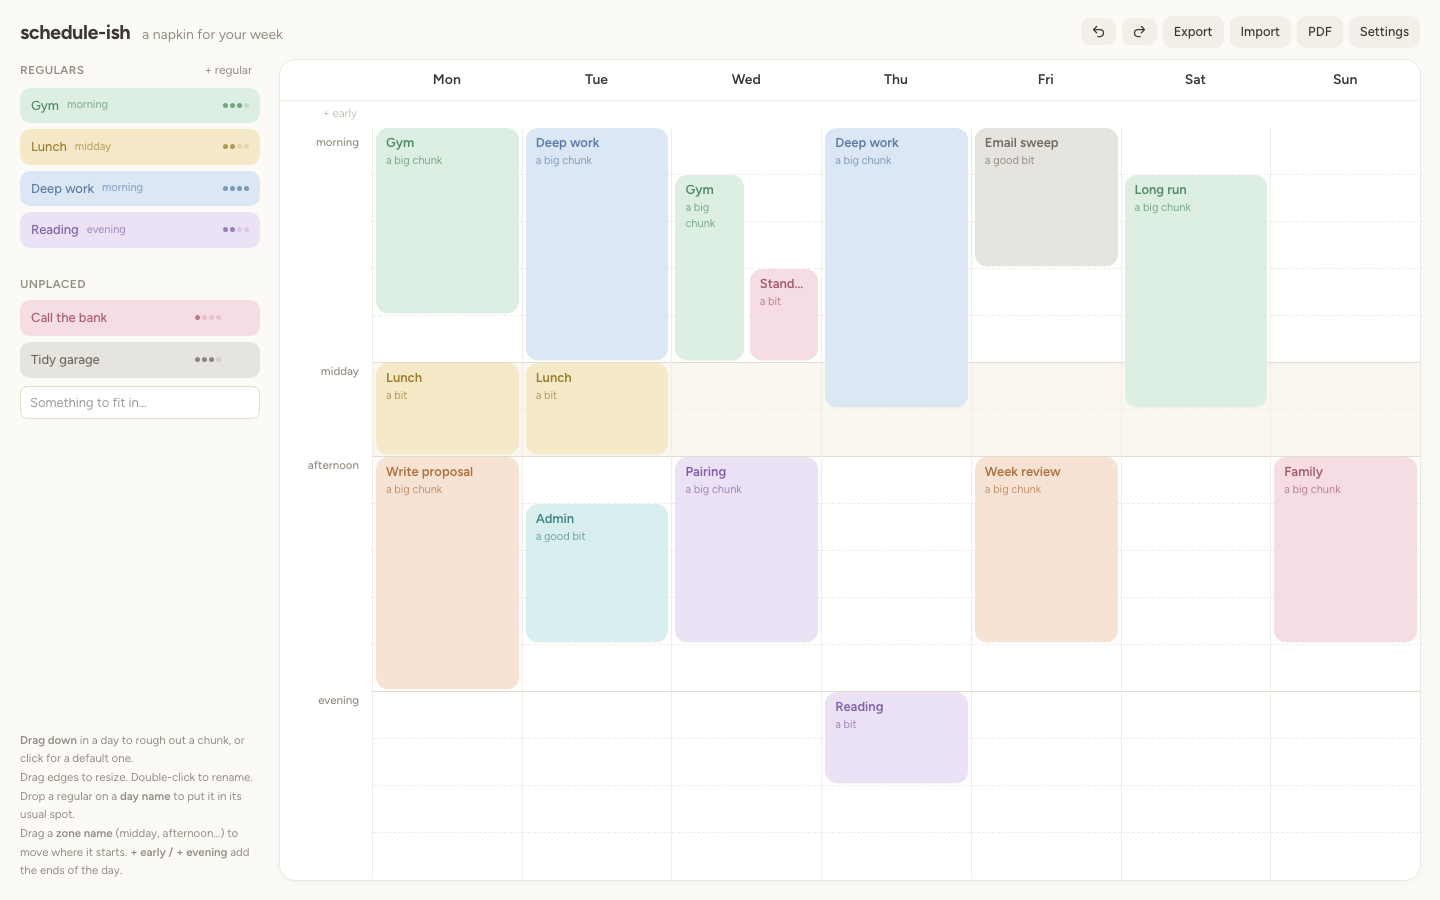
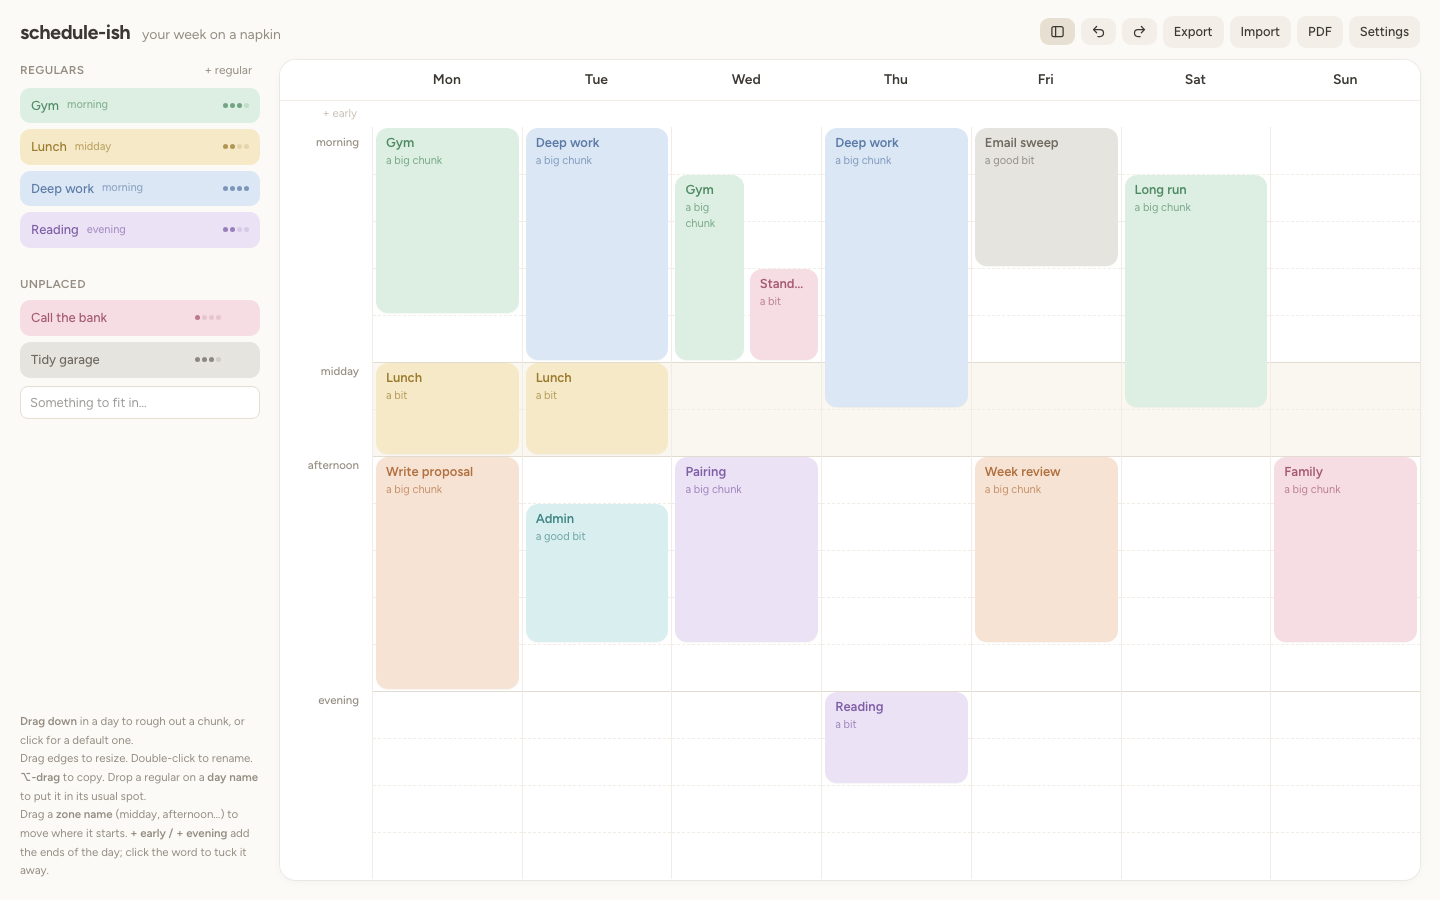
schedule-ish: sidebar left/right/hidden; duplicate blocks
A header button shows or hides the sidebar, and Settings has
'sidebar: left / right / hidden'. Both are saved with the plan. They
use inline styles because the Tailwind browser build generates CSS for
newly added classes a beat late (and 'hidden' loses to 'flex').

Blocks get a duplicate tool: the copy goes straight after the original,
else the same spot on the next visible day (with a note saying so), else
the first free gap that day. Option-dragging a block drags a copy and
leaves the original; either way it's one undo step.

The hover minus on early/evening no longer shifts the label sideways.

Changed region(s): [[0.0, 0.7778, 0.1875, 0.9956], [0.0938, 0.0311, 0.1875, 0.0622], [0.7188, 0.0, 0.75, 0.0622]]

diff --git a/schedule-ish/app.js b/schedule-ish/app.js
@@ -83,6 +83,7 @@
   // ---- rendering -----------------------------------------------------------
 
   function render() {
+    placeSidebar();
     renderSidebar();
     renderBoard();
     focusEditor();
@@ -131,9 +132,23 @@
 
       <section class="mt-auto text-[11.5px] leading-relaxed" style="color:var(--muted)">
         <p><b class="font-semibold">Drag down</b> in a day to rough out a chunk, or click for a default one.</p>
-        <p>Drag edges to resize. Double-click to rename. Drop a regular on a <b class="font-semibold">day name</b> to put it in its usual spot.</p>
-        <p>Drag a <b class="font-semibold">zone name</b> (midday, afternoon…) to move where it starts. <b class="font-semibold">+ early / + evening</b> add the ends of the day.</p>
+        <p>Drag edges to resize. Double-click to rename. <b class="font-semibold">⌥-drag</b> to copy. Drop a regular on a <b class="font-semibold">day name</b> to put it in its usual spot.</p>
+        <p>Drag a <b class="font-semibold">zone name</b> (midday, afternoon…) to move where it starts. <b class="font-semibold">+ early / + evening</b> add the ends of the day; click the word to tuck it away.</p>
       </section>`;
+  }
+
+  // Sidebar on the left or right (or hidden). The aside has its own 8px
+  // padding, so the page edge on its side gets less.
+  function placeSidebar() {
+    const { sidebar, sidebarHidden } = state.settings;
+    const main = $('#main');
+    // Inline styles, not Tailwind classes: the browser build generates CSS
+    // for new classes a beat later, and `hidden` would lose to `flex` anyway.
+    main.style.flexDirection = sidebar === 'right' ? 'row-reverse' : 'row';
+    main.style.paddingLeft = !sidebarHidden && sidebar === 'left' ? '12px' : '20px';
+    main.style.paddingRight = !sidebarHidden && sidebar === 'right' ? '12px' : '20px';
+    $('#sidebar').style.display = sidebarHidden ? 'none' : '';
+    $('[data-cmd="toggle-sidebar"]').classList.toggle('on', !sidebarHidden);
   }
 
   function measureStep() {
@@ -175,7 +190,7 @@
       <div class="zone-label ${movable ? 'movable' : ''} ${optional ? 'optional' : ''} ${active ? 'active' : ''}"
            ${movable || optional ? `data-zone-label="${z.id}" title="${tip.charAt(0).toUpperCase() + tip.slice(1)}"` : ''}
            style="top:${Math.max(0, (z.start - r0) * px - 6)}px">
-        <span>${z.label}${optional ? '<i class="zone-minus">−</i>' : ''}</span>
+        <span>${optional ? '<i class="zone-minus">−</i>' : ''}${z.label}</span>
       </div>`;
     }).join('');
 
@@ -243,6 +258,7 @@
            ${roomy ? `<div class="size-word">${M.sizeWord(b.size)}</div>` : ''}`}
       ${isGhost ? '' : `<div class="tools ${roomy ? 'at-bottom' : ''}">
         <button class="tool" data-action="color" title="Change colour" style="color:inherit">●</button>
+        <button class="tool" data-action="duplicate" title="Duplicate (or ⌥-drag)"><svg width="12" height="12" viewBox="0 0 24 24" fill="none" stroke="currentColor" stroke-width="2.4" stroke-linecap="round" stroke-linejoin="round"><rect x="8" y="8" width="13" height="13" rx="3"/><path d="M16 8V6a3 3 0 0 0-3-3H6a3 3 0 0 0-3 3v7a3 3 0 0 0 3 3h2"/></svg></button>
         <button class="tool" data-action="make-regular" title="Save as a regular">☆</button>
         <button class="tool" data-action="delete" title="Delete (⌫)">×</button>
       </div>`}
@@ -307,6 +323,7 @@
       beginDrag(e, {
         kind: edge ? 'resize-' + edge.dataset.edge : 'move',
         blockId: b.id,
+        copy: e.altKey && !edge, // ⌥-drag leaves a copy behind
         grab: stepAt(rect, e.clientY) - b.start,
         orig: { day: b.day, start: b.start, size: b.size },
       });
@@ -353,7 +370,7 @@
     const d = ui.drag;
     if (!d) return;
     ui.drag = null;
-    document.body.classList.remove('dragging', 'resizing', 'creating');
+    document.body.classList.remove('dragging', 'resizing', 'creating', 'copying');
     if (d.active) DRAGS[d.kind].end(d, e);
     else if (DRAGS[d.kind].click) DRAGS[d.kind].click(d, e);
   });
@@ -362,7 +379,7 @@
     const d = ui.drag;
     if (!d) return;
     ui.drag = null;
-    document.body.classList.remove('dragging', 'resizing', 'creating');
+    document.body.classList.remove('dragging', 'resizing', 'creating', 'copying');
     if (d.floating) d.floating.remove();
     state = JSON.parse(d.snap);
     ui.ghost = null;
@@ -371,7 +388,11 @@
 
   function startActive(d, e) {
     const body = document.body.classList;
-    if (d.kind === 'move' || d.kind === 'regular' || d.kind === 'unplaced') body.add('dragging');
+    if (d.copy) {
+      const b = findBlock(d.blockId);
+      state.blocks.push({ ...b, id: M.newId() });
+      body.add('copying');
+    } else if (d.kind === 'move' || d.kind === 'regular' || d.kind === 'unplaced') body.add('dragging');
     else if (d.kind === 'create') body.add('creating');
     else if (d.kind !== 'boundary' || d.movable) body.add('resizing');
     if (d.kind === 'regular' || d.kind === 'unplaced') {
@@ -637,6 +658,16 @@
         case 'delete':
           ui.selectedId = null;
           return commit(s => { s.blocks = s.blocks.filter(b => b.id !== id); });
+        case 'duplicate': {
+          const b = findBlock(id);
+          const days = M.orderedDays(state.settings.weekStart, state.settings.visibleDays);
+          const spot = M.duplicateSpot(state.blocks, b, days, ui.range, ui.zones);
+          const copy = { ...b, id: M.newId(), ...spot };
+          ui.selectedId = copy.id;
+          commit(s => s.blocks.push(copy));
+          if (spot.day !== b.day) toast(`No room after it, so the copy went to ${M.DAY_LONG[spot.day]}`);
+          return;
+        }
         case 'color':
           return commit(() => { const b = findBlock(id); b.color = (b.color + 1) % M.PALETTE.length; });
         case 'make-regular': {
@@ -662,6 +693,7 @@
       case 'settings': return openSettings(cmd);
       case 'new-regular': return editRegular(null, cmd);
       case 'print': return window.print();
+      case 'toggle-sidebar': return commit(s => { s.settings.sidebarHidden = !s.settings.sidebarHidden; });
       case 'show-zone':
         pushUndo();
         if (setZone(cmd.dataset.zone, true)) save(); else undoStack.pop();
@@ -758,6 +790,10 @@
       <div class="seg" data-f="weekStart">${M.DAY_NAMES.map((n, i) => `<button data-v="${i}">${n}</button>`).join('')}</div>
       <label>days to show</label>
       <div class="seg" data-f="visible">${M.DAY_NAMES.map((n, i) => `<button data-v="${i}">${n}</button>`).join('')}</div>
+      <label>sidebar</label>
+      <div class="seg" data-f="sidebar">
+        <button data-v="left">left</button><button data-v="right">right</button><button data-v="hidden">hidden</button>
+      </div>
       <label>stretch the day</label>
       <div class="seg" data-f="zones">
         <button data-v="early">early</button><button data-v="evening">evening</button>
@@ -769,6 +805,8 @@
       const sync = () => {
         el.querySelectorAll('[data-f="weekStart"] button').forEach(b => b.classList.toggle('on', +b.dataset.v === state.settings.weekStart));
         el.querySelectorAll('[data-f="visible"] button').forEach(b => b.classList.toggle('on', state.settings.visibleDays[+b.dataset.v]));
+        const sb = state.settings.sidebarHidden ? 'hidden' : state.settings.sidebar;
+        el.querySelectorAll('[data-f="sidebar"] button').forEach(b => b.classList.toggle('on', b.dataset.v === sb));
         el.querySelectorAll('[data-f="zones"] button').forEach(b => b.classList.toggle('on', b.dataset.v === 'early' ? state.view.showEarly : state.view.showEvening));
       };
       sync();
@@ -781,6 +819,12 @@
           const i = +b.dataset.v;
           if (state.settings.visibleDays.filter(Boolean).length === 1 && state.settings.visibleDays[i]) return toast('Keep at least one day');
           commit(s => { s.settings.visibleDays[i] = !s.settings.visibleDays[i]; });
+        } else if (f === 'sidebar') {
+          const v = b.dataset.v;
+          commit(s => {
+            s.settings.sidebarHidden = v === 'hidden';
+            if (v !== 'hidden') s.settings.sidebar = v;
+          });
         } else if (f === 'zones') {
           const shown = b.dataset.v === 'early' ? state.view.showEarly : state.view.showEvening;
           pushUndo();

diff --git a/schedule-ish/index.html b/schedule-ish/index.html
@@ -31,6 +31,7 @@
     body.dragging, body.dragging * { cursor: grabbing !important; user-select: none; }
     body.resizing, body.resizing * { cursor: ns-resize !important; user-select: none; }
     body.creating, body.creating * { cursor: crosshair !important; user-select: none; }
+    body.copying, body.copying * { cursor: copy !important; user-select: none; }
 
     /* grid */
     .day-col { background-color: var(--board); border-left: 1px solid var(--grid); touch-action: none; }
@@ -87,7 +88,8 @@
     .zone-label.optional { cursor: pointer; }
     .zone-label.movable { cursor: ns-resize; }
     .zone-label[data-zone-label]:hover span, .zone-label.active span { background: #f1ece3; color: var(--ink); }
-    .zone-minus { font-style: normal; margin-left: 4px; opacity: 0; transition: opacity .12s; }
+    .zone-label span { position: relative; }
+    .zone-minus { position: absolute; right: 100%; margin-right: 3px; font-style: normal; opacity: 0; transition: opacity .12s; }
     .zone-label:hover .zone-minus { opacity: .8; }
     .zone-add { font-size: 11.5px; color: var(--faint); padding: 1px 7px; border-radius: 6px; border: 0; background: transparent; }
     .zone-add:hover { color: var(--ink); background: #f1ece3; }
@@ -108,6 +110,7 @@
     .field:focus { border-color: var(--faint); }
     .btn { font-size: 13px; font-weight: 500; padding: 6px 11px; border-radius: 9px; border: 0; background: #f3efe8; color: var(--ink); }
     .btn:hover { background: #ebe5da; }
+    .btn.on { background: #e6dfd2; }
     .btn.primary { background: var(--ink); color: #fff; }
     .btn.danger { color: #a65a5a; background: transparent; }
     .btn.danger:hover { background: #f8e9e9; }
@@ -140,6 +143,7 @@
         <span class="text-sm whitespace-nowrap max-lg:hidden" style="color: var(--muted)">your week on a napkin</span>
       </div>
       <div class="ml-auto flex items-center gap-1.5">
+        <button class="btn !px-2.5" data-cmd="toggle-sidebar" title="Show / hide the sidebar" aria-label="Toggle sidebar"><svg width="15" height="15" viewBox="0 0 24 24" fill="none" stroke="currentColor" stroke-width="2" stroke-linecap="round" stroke-linejoin="round" style="display:block"><rect x="3" y="4" width="18" height="16" rx="3"/><path d="M9 4v16"/></svg></button>
         <button class="btn !px-2.5" data-cmd="undo" title="Undo (⌘Z)" aria-label="Undo"><svg width="15" height="15" viewBox="0 0 24 24" fill="none" stroke="currentColor" stroke-width="2" stroke-linecap="round" stroke-linejoin="round" style="display:block"><path d="M9 14 4 9l5-5M4 9h10.5a5.5 5.5 0 0 1 0 11H11"/></svg></button>
         <button class="btn !px-2.5" data-cmd="redo" title="Redo (⇧⌘Z)" aria-label="Redo"><svg width="15" height="15" viewBox="0 0 24 24" fill="none" stroke="currentColor" stroke-width="2" stroke-linecap="round" stroke-linejoin="round" style="display:block"><path d="m15 14 5-5-5-5M20 9H9.5a5.5 5.5 0 0 0 0 11H13"/></svg></button>
         <button class="btn" data-cmd="export" title="Download this plan as JSON">Export</button>
@@ -150,7 +154,7 @@
       </div>
     </header>
 
-    <main class="flex-1 min-h-0 flex gap-3 pl-3 pr-5 pb-5">
+    <main id="main" class="flex-1 min-h-0 flex gap-3 pb-5">
       <aside id="sidebar" class="w-64 shrink-0 flex flex-col gap-5 overflow-y-auto overflow-x-hidden px-2"></aside>
       <section class="flex-1 min-w-0 flex flex-col rounded-2xl overflow-hidden"
                style="background: var(--board); box-shadow: 0 0 0 1px rgba(60,50,30,.07), 0 2px 10px rgba(60,50,30,.04)">
